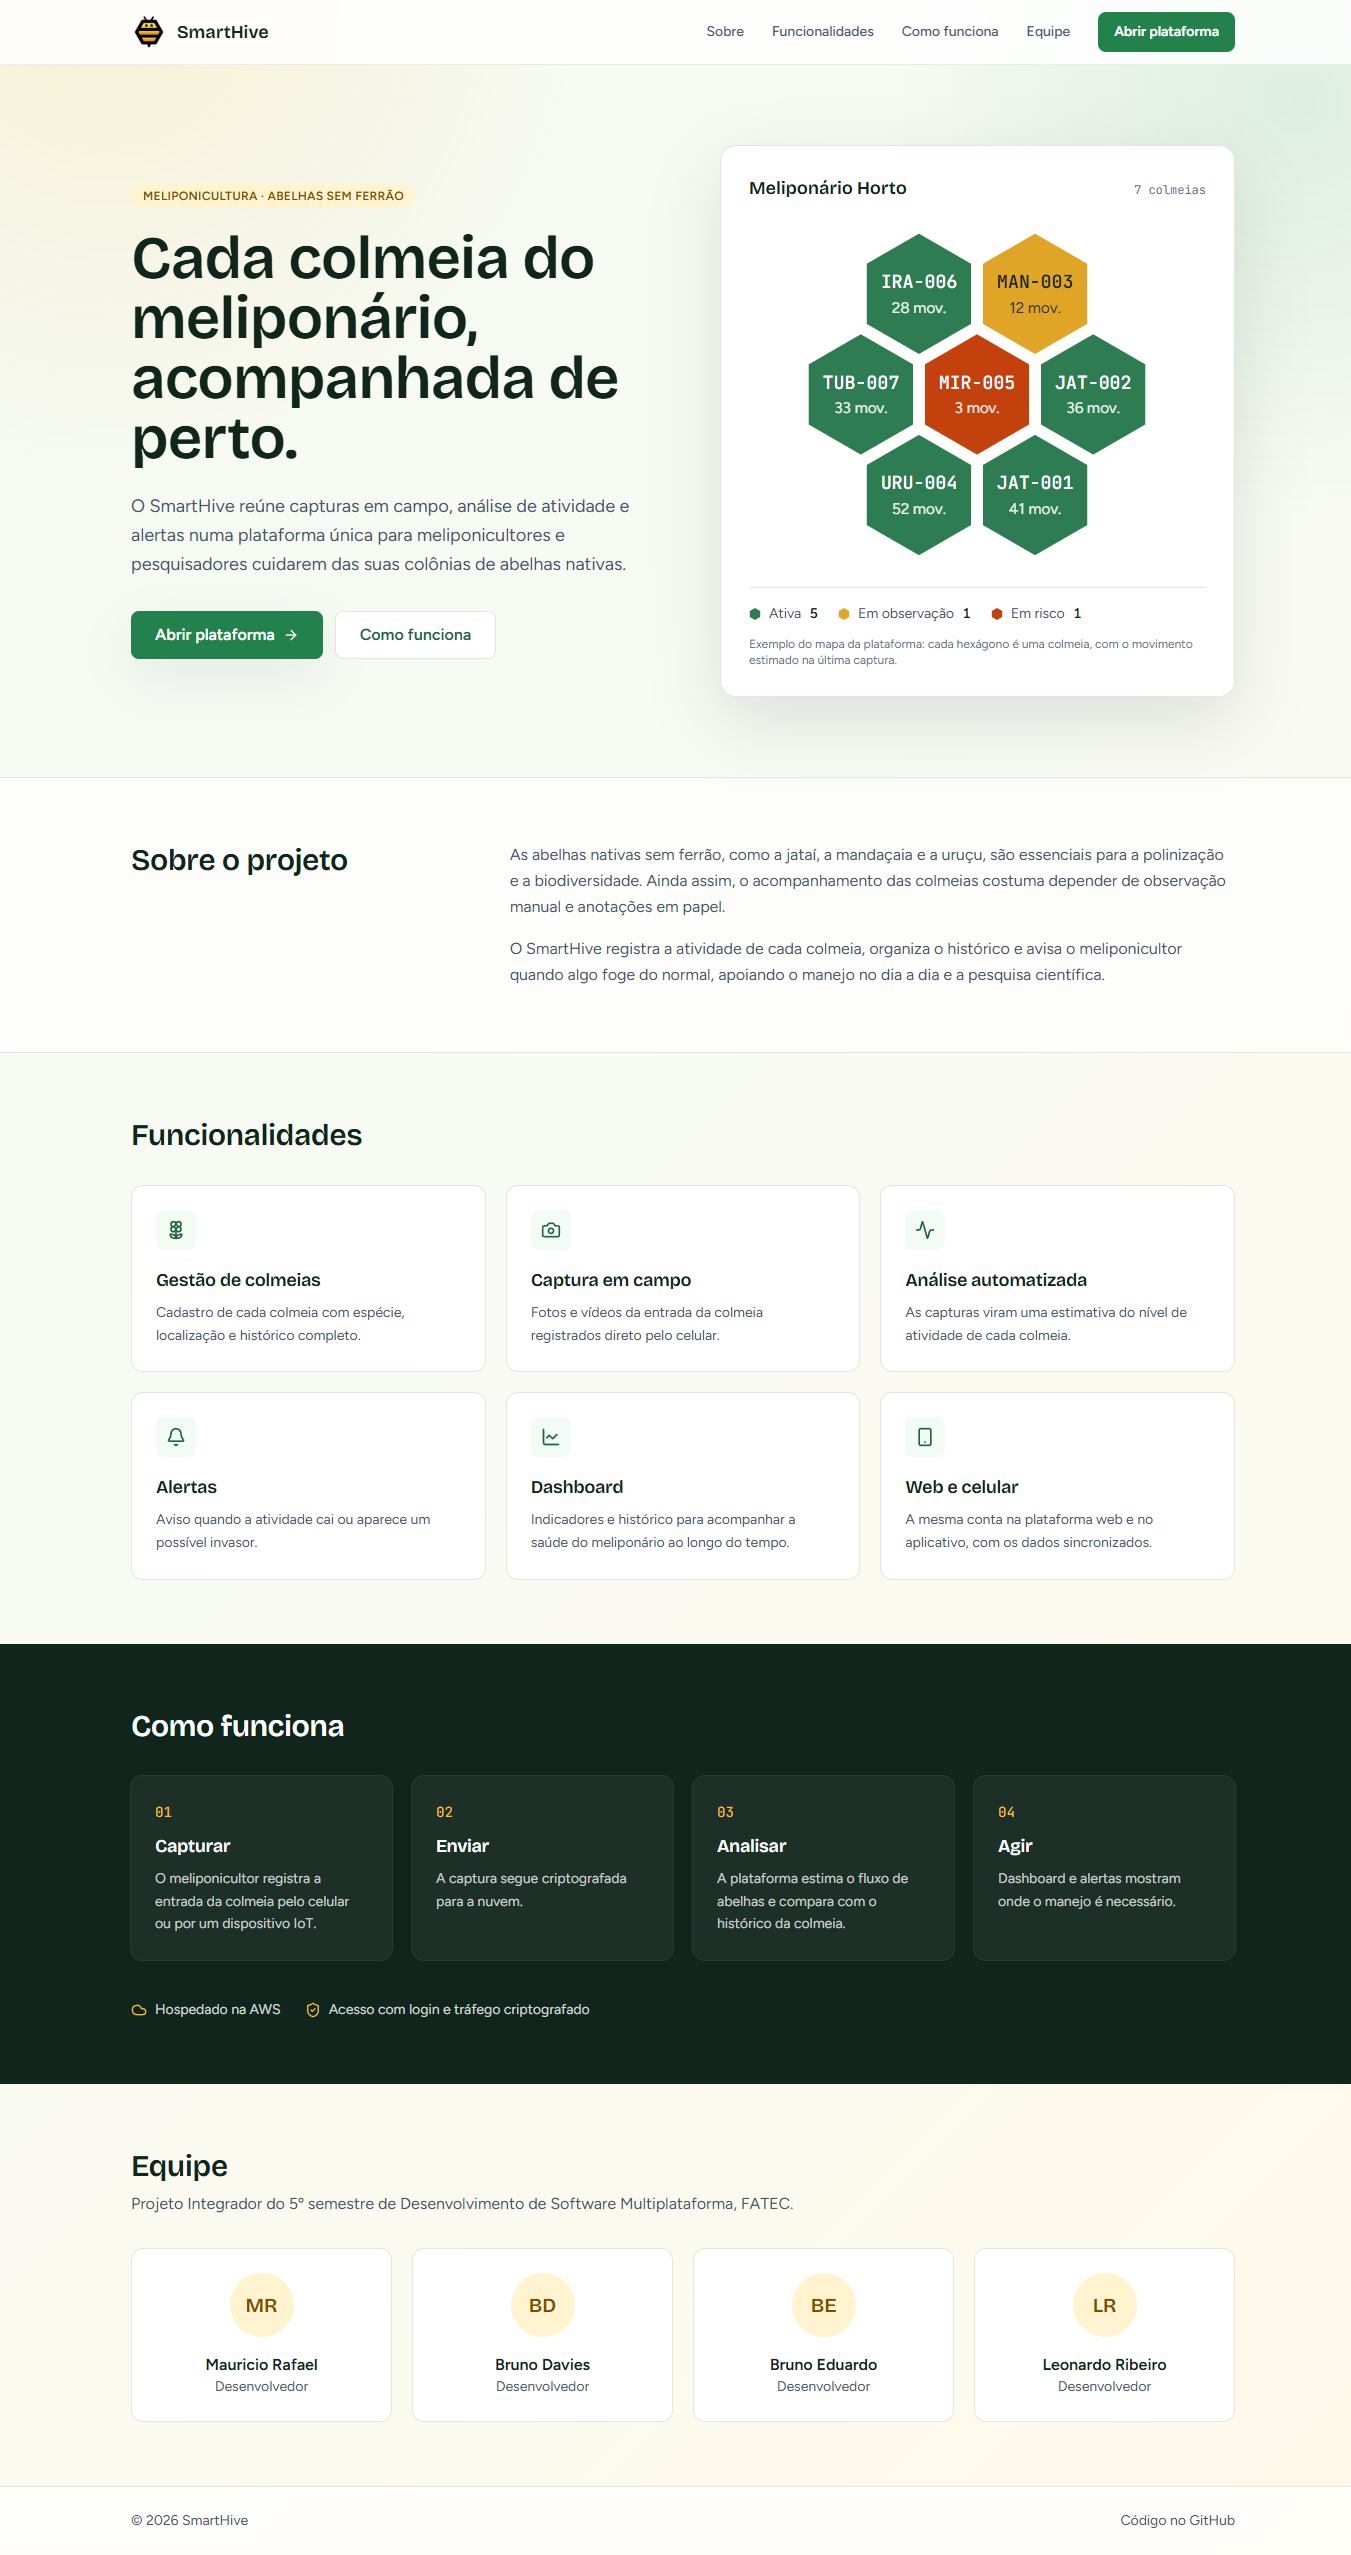
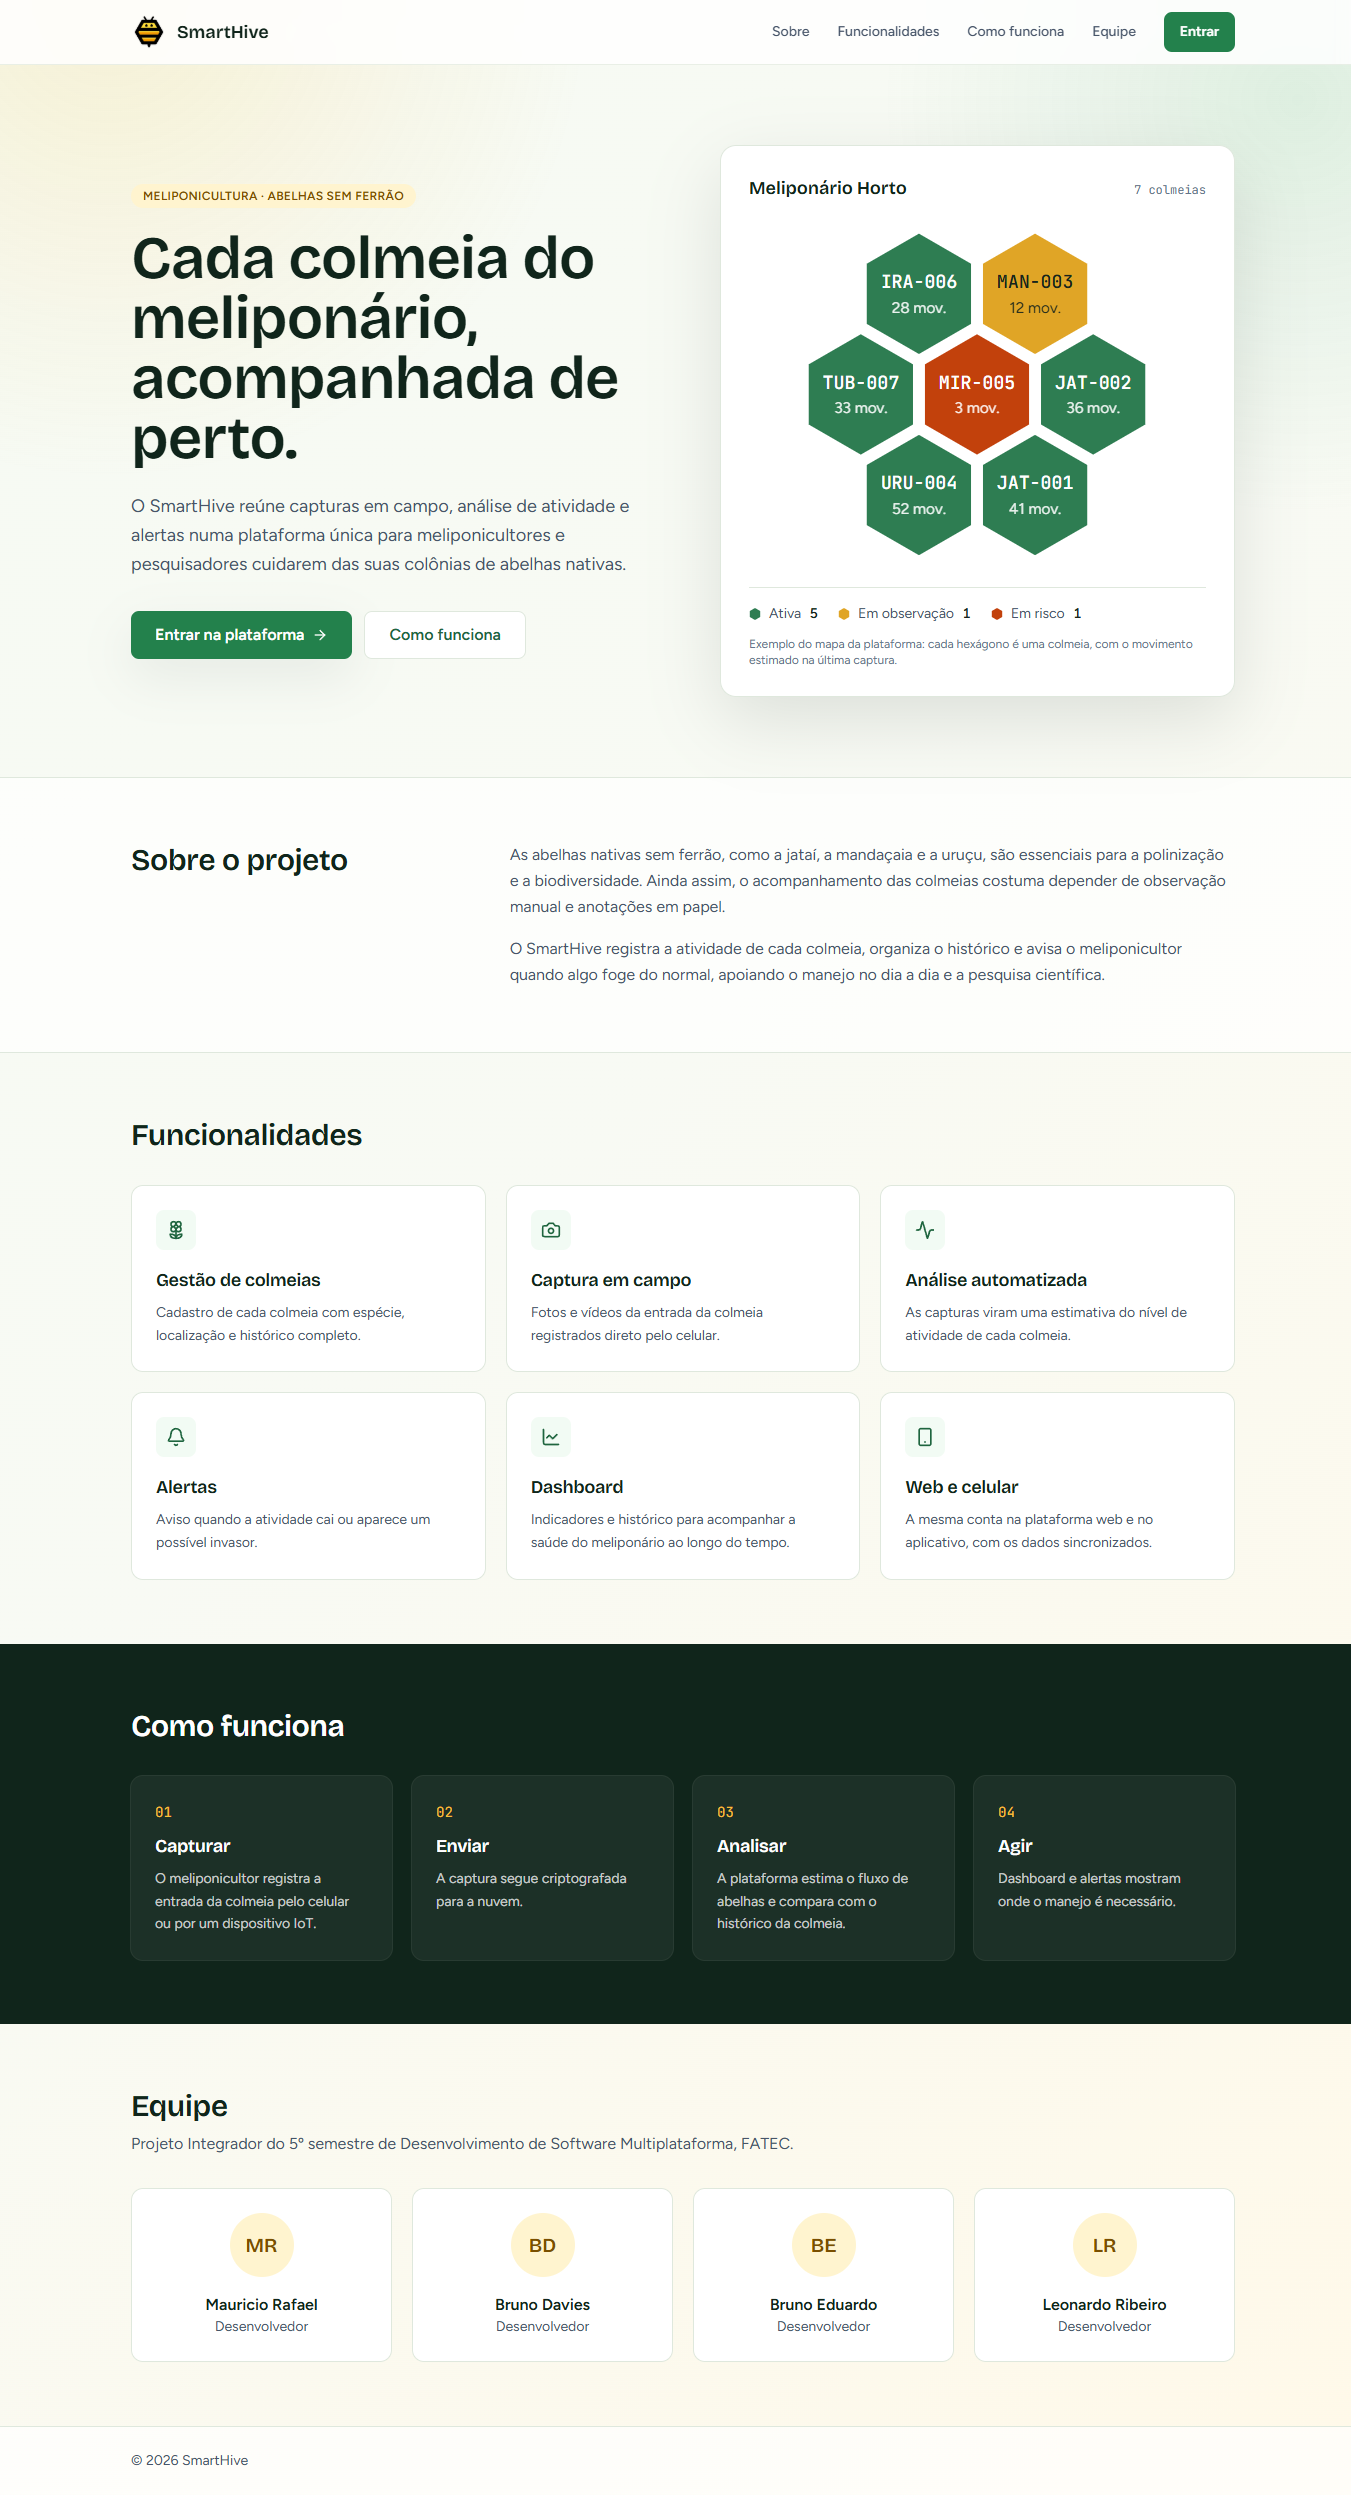
Remove do site o link do GitHub e as mencoes a AWS/criptografia

diff --git a/frontend/src/pages/Site.tsx b/frontend/src/pages/Site.tsx
@@ -1,4 +1,4 @@
-import { Activity, ArrowRight, Bell, Camera, Cloud, Flower2, LineChart, Menu, ShieldCheck, Smartphone, X } from "lucide-react";
+import { Activity, ArrowRight, Bell, Camera, Flower2, LineChart, Menu, Smartphone, X } from "lucide-react";
 import { useState } from "react";
 import { Link } from "react-router-dom";
 import logo from "../assets/logo.png";
@@ -231,14 +231,6 @@ export function Site() {
                 </li>
               ))}
             </ol>
-            <div className="mt-10 flex flex-wrap gap-6 text-sm text-white/80">
-              <span className="inline-flex items-center gap-2">
-                <Cloud className="h-4 w-4 text-honey-400" aria-hidden="true" /> Hospedado na AWS
-              </span>
-              <span className="inline-flex items-center gap-2">
-                <ShieldCheck className="h-4 w-4 text-honey-400" aria-hidden="true" /> Acesso com login e tráfego criptografado
-              </span>
-            </div>
           </div>
         </section>
 
@@ -263,16 +255,8 @@ export function Site() {
       </main>
 
       <footer className="border-t border-border bg-white/70">
-        <div className="mx-auto flex max-w-6xl flex-col items-center justify-between gap-3 px-4 py-6 text-sm text-slate-600 sm:flex-row sm:px-6">
+        <div className="mx-auto flex max-w-6xl items-center px-4 py-6 text-sm text-slate-600 sm:px-6">
           <span>© {new Date().getFullYear()} SmartHive</span>
-          <a
-            href="https://github.com/biocode-pi/smarthive"
-            target="_blank"
-            rel="noreferrer"
-            className="focus-ring rounded hover:text-hive-700"
-          >
-            Código no GitHub
-          </a>
         </div>
       </footer>
     </div>
